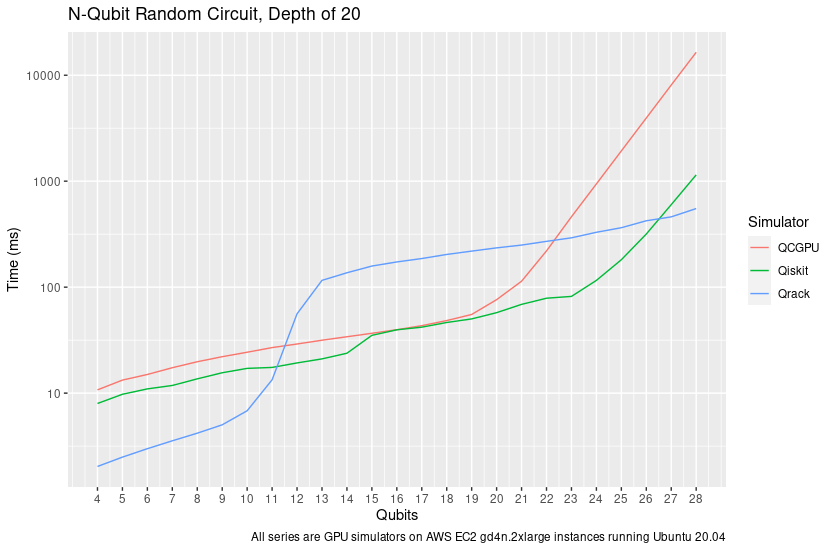
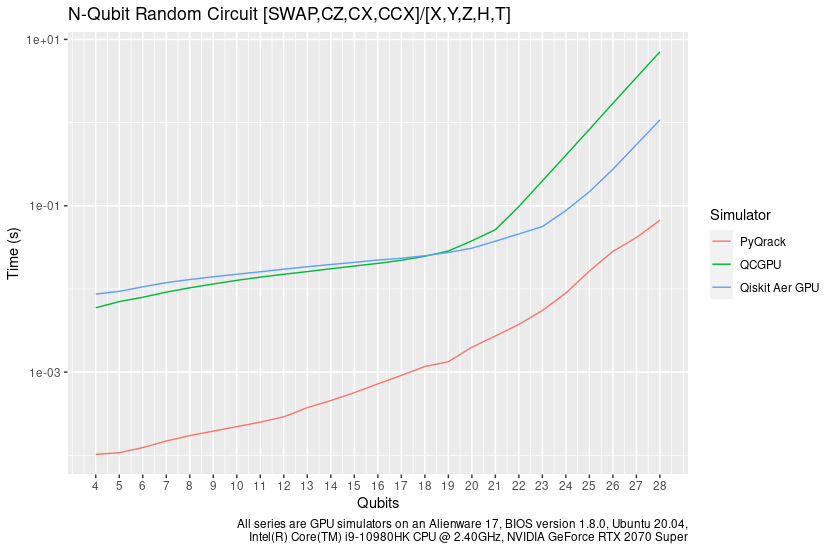
Update benchmarks

diff --git a/docs/performance.rst b/docs/performance.rst
@@ -5,135 +5,72 @@ Qrack Performance
 Abstract
 ********
 
-The Qrack quantum simulator is an open-source C++ high performance, general
-purpose simulation supporting arbitrary numbers of entangled qubits.  While
-there are a variety of other quantum simulators such as [QSharp]_, [QHiPSTER]_,
-and others listed on [Quantiki]_, Qrack represents a unique offering suitable
-for applications across the field.
+The Qrack quantum simulator is an open-source C++ high performance, general purpose simulation supporting arbitrary numbers of entangled qubits. While there are a variety of other quantum simulators such as [QSharp]_, [QHiPSTER]_, and others listed on [Quantiki]_, Qrack represents a unique offering suitable for applications across the field.
 
-A selection of performance tests are identified for creating comparisons
-between various quantum simulators.  These metrics are implemented and
-analyzed for Qrack.  These experimentally derived results compare favorably
-against theoretical boundaries, and out-perform naive implementations for many
-scenarios.
+A selection of performance tests are identified for creating comparisons between various quantum simulators. These metrics are implemented and analyzed for Qrack, QCGPU, and Qiskit Aer GPU. These experimentally derived results compare favorably against theoretical boundaries, and out-perform naive implementations for many scenarios.
 
 Introduction
 ************
 
-There are a growing number of quantum simulators available for research and
-industry use.  Many of them perform quite well for smaller number of qubits,
-and are suitable for non-rigorous experimental explorations.  Fewer projects
-are suitable as "high performance" candidates in the >32 qubit range. Many 
-rely on the common approach often described as the "Schrödinger method," 
-doubling RAM usage by a factor of 2 per fully interoperable qubit, or else 
-Feynman path integrals, which can become intractible at arbitrary circuit depth.
-Attempting to build on the work of IBM's `Breaking the 49-Qubit Barrier in the Simulation of Quantum Circuits` [Pednault2017]_ paper, 
-with more recent attention to potential improvements inspired by Gottesman-Knill stabilizer simulators,
-Qrack can execute surprisingly general circuits past 32 qubits in width on modest single nodes.
+There are a growing number of quantum simulators available for research and industry use. Many of them perform quite well for smaller number of qubits, and are suitable for non-rigorous experimental explorations. Fewer projects are suitable as "high performance" candidates in the >32 qubit range. Many rely on the common approach often described as the "Schrödinger method,"  doubling RAM usage by a factor of 2 per fully interoperable qubit, or else Feynman path integrals, which can become intractible at arbitrary circuit depth. Inspired by IBM's `Pareto-Efficient Quantum Circuit Simulation Using Tensor Contraction Deferral` [Pednault2017]_ paper, instead with a Dirac "ket" centered approach to Schmidt decomposition, and with more recent attention to potential improvements inspired by Gottesman-Knill stabilizer simulators, Qrack can execute surprisingly general circuits past 32 qubits in width on modest single nodes.
 
-Qrack is an open-source quantum computer simulator option, implemented in C++, 
-supporting integration into other popular compilers and interfaces, suitable for utilization in a wide variety
-of projects.  As such, it is an ideal test-bed for establishing a set of
-benchmarks useful for comparing performance between various quantum
-simulators.
+Qrack is an open-source quantum computer simulator option, implemented in C++, directly wrapped for Python via "PyQrack,: supporting integration into other popular compilers and interfaces, suitable for utilization in a wide variety of projects. As such, it is an ideal test-bed for establishing a set of benchmarks useful for comparing performance between various quantum simulators.
 
-Qrack provides a "QEngineCPU" and a "QEngineOCL" that represent non-OpenCL and 
-OpenCL base implementations for Schrödinger method simulation. "QHybrid" switches off between
-these two types internally for best performance at low qubit widths. "QStabilizerHybrid" switches
-off internally between Gottesman-Knill "stabilizer" simulation and Schrödinger method. For general use cases,
-the "QUnit" layer provides explicit Schmidt decomposition on top of another 
-engine type (per [Pednault2017]_). "QPager" segments a Schrödinger method simulation
-into equally sized "pages" that can be run on multiple OpenCL devices or multiple maximum
-allocation segments of a single device, increasing greatest maximally entangled width.
-A "QEngine" type is always the base layer, and QUnit, QStabilizerHybrid, and QPager types
-may be layered over these, and over each other.
+Qrack provides a "QEngineCPU" and a "QEngineOCL" that represent non-OpenCL and OpenCL base implementations for Schrödinger method simulation. "QHybrid" switches off between these two types internally for best performance at low qubit widths. "QStabilizerHybrid" switches off internally between Gottesman-Knill "stabilizer" simulation and Schrödinger method. For general use cases, the "QUnit" layer provides explicit Schmidt decomposition on top of another engine type (per [Pednault2017]_). "QPager" segments a Schrödinger method simulation into equally sized "pages" that can be run on multiple OpenCL devices or multiple maximum allocation segments of a single device, increasing greatest maximally entangled width. A "QEngine" type is always the base layer, and QUnit, QStabilizerHybrid, and QPager types may be layered over these, and over each other.
 
-This version of the Qrack benchmarks contains comparisons against other
-publicly available simulators, specifically QCGPU, and Qiskit (each with its
-default simulator, if multiple were available). Qrack has been incorporated as an optional
-back end for ProjectQ and plugin for Qiskit, in repositories maintained by the developers of Qrack, and
-benchmarks for their performance will follow.
+This version of the Qrack benchmarks contains comparisons against other publicly available simulators, specifically QCGPU, and Qiskit Aer GPU (each with its default simulator, if multiple were available). Qrack has been incorporated as an optional back end for ProjectQ and plugin for Qiskit, in repositories maintained by the developers of Qrack, and benchmarks for their performance will follow.
 
 Reader Guidance
 ===============
 
-This document is largely targeted towards readers looking for a quantum
-simulator that desire to establish the expected bounds for various use-cases
-prior to implementation.
+This document is largely targeted towards readers looking for a quantum simulator that desire to establish the expected bounds for various use-cases prior to implementation.
 
 Disclaimers
 ===========
 
-* Your Mileage May Vary - Any performance metrics here are the result of
-  experiments executed with selected compilation and execution parameters on a
-  system with a degree of variability; execute the supplied benchmarks on the
-  desired target system for accurate performance assessments.
+* Your Mileage May Vary - Any performance metrics here are the result of experiments executed with selected compilation and execution parameters on a system with a degree of variability; execute the supplied benchmarks on the desired target system for accurate performance assessments.
 
-* Benchmarking is Hard - While we've attempted to perform clean and accurate
-  results, bugs and mistakes do occur.  If flaws in process are identified,
-  please let us know!
+* Benchmarking is Hard - While we've attempted to perform clean and accurate results, bugs and mistakes do occur.  If flaws in process are identified, please let us know!
 
 Method
 ******
 
-This performance document is meant to be a simple, to-the-point, and preliminary digest of these results. We plan to submit a formal academic report for peer review of these results, in full detail, as soon as we collect sufficient feedback on the preprint. (The originally planned date of submission was in February of 2020, but it seems that COVID-19 has hindered our ability to seek preliminary feedback.) These results were prepared with the generous financial support of the Unitary Fund. However, we offer that our benchmark code is public, largely self-explanatory, and easily reproducible, while we prepare that report. Hence, we release these partial preliminary results now.
+This performance document is meant to be a simple, to-the-point, and preliminary digest of these results. These results were prepared with the generous financial support of the Unitary Fund. Our benchmark code is public, largely self-explanatory, and easily reproducible.
 
 100 timed trials of single and parallel gates were run for each qubit count between 4 and 28 qubits. Three tests were performed: the quantum Fourier transform, ("QFT"), random circuits constructed from a universal gate set, and an idealized approximation of Google's Sycamore chip benchmark, as per [Sycamore]_. The benchmarking code is available at `https://github.com/vm6502q/simulator-benchmarks <https://github.com/vm6502q/simulator-benchmarks>`_. Default build and runtime options were used for all candidates. **Notably, this means Qrack ran at single floating point accuracy whereas QCGPU and Qiskit ran at double floating point accuracy.**
 
-Among AWS virtual machine instances, we sought to find those systems with the lowest possible cost to run the benchmarks for their respective execution times, at or below for the 28 qubit mark. An AWS g4dn.2xlarge running Ubuntu Server 20.04LTS was selected for GPU benchmarks. Benchmarks were collected from March 4, 2021 through March 7, 2021. These results were combined with single gate, N-width gate benchmarks for Qrack, collected overnight from December 19th, 2018 into the morning of December 20th. (The potential difference since December 2018 in these particular Qrack tests reused from then should be insignificant. We took care to try to report fair tests, within cost limitations, but please let us know if you find anything that appears misrepresentative.)
+The same Alienware 17 laptop device was used for all benchmarks, (BIOS version 1.8.0, Intel(R) Core(TM) i9-10980HK CPU @ 2.40GHz, NVIDIA GeForce RTX 2070 Super). Benchmarks were collected from the week of October 3, 2021 through October 10, 2021.
 
-Comparative benchmarks included QCGPU, the Qiskit-Aer GPU simulator, and Qrack's default typically optimal "stack" of a "QUnit" layer on top of "QStabilizerHybrid," on top of "QPager," on top "QHybrid." All of these candidates are GPU-based. CPU-based Cirq was considered for presentation here, but a nonexhaustive experiment on AWS CPU instances advertised as low cost-for-performance failed to return Cirq results on rough order of cost-for-performance of any GPU candidate. However, the author does not feel comfortable concluding on this basis that CPU-based simulation cost could not be made competitve with GPU-based simulation, hence we omit Cirq from our graphs to avoid potential misrepresentation.
+Comparative benchmarks included QCGPU, the Qiskit-Aer GPU simulator, and Qrack's default typically optimal "stack" of a "QUnit" layer on top of "QStabilizerHybrid," on top of "QPager," on top of a new Pauli gate fusion layer, on top of "QHybrid." All of these candidates are GPU-based, though Qrack "hybridizes" with CPU based simulation as appropriate to improve performance.
 
-QFT benchmarks could be implemented in a straightforward manner on all simulators, and were run as such. Qrack appears to be the only candidate considered for which inputs into the QFT can (drastically) affect its execution time, with permutation basis states being run in much shorter time, for example, hence only Qrack required a more general random input, whereas all other simulators were started in the |0> state. For a sufficiently representatively general test, Qrack instead used registers of single separable qubits intialized with uniformly randomly distributed probability between |0> and |1>, and uniformly randomly distributed phase offset between those states.
+QFT benchmarks could be implemented in a straightforward manner on all simulators, and were run as such. Qrack appears to be the only candidate considered for which inputs into the QFT can (drastically) affect its execution time, with permutation basis states being run in much shorter time, for example, hence only Qrack required a more general random input, whereas all other simulators were started in the |0> state. For a sufficiently representatively general test, Qrack instead used registers of single separable qubits intialized with uniformly randomly distributed probability between |0> and |1>, and uniformly randomly distributed phase offset between those states. Random permutation basis eigenstate initialization is also presented for Qrack, to demonstrate the quantitative difference, though we do not think this a representative test in itself.
 
-Random universal circuits carried out layers of single qubit gates on every qubit in the width of the test, followed by layers randomly selected couplings of (2-qubit) CNOT, CZ, and SWAP, or (3-qubit) CCNOT, eliminating each selected bit for the layer. 20 layers of 1-qubit-plus-multi-qubit iterations were carried out, for each qubit width, for the benchmarks presented here.
+Random universal circuits carried out layers of single qubit gates on every qubit in the width of the test, followed by layers randomly selected couplings of (2-qubit) SWAP, CZ, CNOT, or (3-qubit) CCNOT, eliminating each selected bit for the layer. 20 layers of 1-qubit-plus-multi-qubit iterations were carried out, for each qubit width, for the benchmarks presented here.
 
-Sycamore circuits were carried out similarly to random universal circuits and the method of the [Sycamore]_ paper, interleaving 1-qubit followed by 2-qubit layers, to depth of 20 layers each. Whereas as that original source appears to have randomly fixed its target circuit ahead of any trials, and then carried the same pre-selected circuit out repeatedly for the required number of trials, all benchmarks in the case of this report generated their circuits per-iteration on-the-fly, per the selection criteria as read from the text of [Sycamore]_. Qrack easily implemented the original Sycamore circuit exactly. By nature of the Schrödinger method simulation used in each other candidate, atomic "convenience method" 1-qubit and 2-qubit gate definitions could potentially easily be added to other candidates for this test, hence **we thought it most representative to make largely performance-irrelevant substitutions of "SWAP" for "iSWAP" for those candidates which did not already define sufficient API convenience methods for "Sycamore" circuits,** without nonrepresentatively complicated gate decompositions. We strongly encourage the reader to inspect and independently execute the simple benchmarking code which was already linked in the beginning of this "Method" section, for total specific detail.
+Sycamore circuits were carried out similarly to random universal circuits and the method of the [Sycamore]_ paper, interleaving 1-qubit followed by 2-qubit layers, to depth of 20 layers each. Whereas as that original source appears to have randomly fixed its target circuit ahead of any trials, and then carried the same pre-selected circuit out repeatedly for the required number of trials, all benchmarks in the case of this report generated their circuits per-iteration on-the-fly, per the selection criteria as read from the text of [Sycamore]_. Qrack easily implemented the original Sycamore circuit exactly. By nature of the Schrödinger method simulation used in each other candidate, atomic "convenience method" 1-qubit and 2-qubit gate definitions could potentially easily be added to other candidates for this test, hence **we thought it most representative to make largely performance-irrelevant substitutions of "SWAP" for "iSWAP" for those candidates which did not already define sufficient API convenience methods for "Sycamore" circuits,** without nonrepresentatively complicated gate decompositions. (Specifically, this is only QCGPU.) We strongly encourage the reader to inspect and independently execute the simple benchmarking code which was already linked in the beginning of this "Method" section, for total specific detail.
 
-Qrack QEngine type heap usage was established as very closely matching theoretical expections, in earlier benchmarks, and this has not fundamentally changed. QUnit type heap usage varies greatly dependent on use case, though not in significant excess of QEngine types. No representative RAM benchmarks have been established for QUnit types, yet. QEngine Heap profiling was carried out with Valgrind Massif. Heap sampling was limited but ultimately sufficient to show statistical confidence.
+Qrack QEngine type heap usage was established as very closely matching theoretical expections, in earlier benchmarks, and this has not fundamentally changed. QUnit type heap usage varies greatly dependent on use case, though not in significant excess of QEngine types. No representative RAM benchmarks have been established for QUnit types, yet.
 
 Results
 *******
-
-We observed extremely close correspondence with Schrödinger method theoretical complexity and RAM usage considerations for the behavior of QEngine types. QEngineCPU and QEngineOCL require exponential time for a single gate on a coherent unit of N qubits. QUnit types with explicitly separated subsystems as per [Pednault2017]_ show constant time requirements for the same single gate.
-
-.. image:: performance/x_single.png
-
-.. image:: performance/cnot_single.png
-
-QEngineCPU and QEngineOCL can perform many identical gates in parallel across entangled subsystems for an approximately constant costs, when total qubits in the engine are held fixed as breadth of the parallel gate application is varied. To test this, we can apply parallel gates at once across the full width of a coherent array of qubits. (CNOT is a two bit gate, so :math:`(N-1)/2` gates are applied to odd numbers of qubits.) Notice in these next graphs how QEngineCPU and QEngineOCL have similar scaling cost as the single gate graphs above, while QUnit types show a linear trend (appearing logarithmic on an exponential axis scale):
-
-.. image:: performance/x_all.png
-
-.. image:: performance/cnot_all.png
-
-Heap sampling supports theoretical expecations to high confidence. Complex numbers are represented as 2 single (32-bit) or 2 double (64-bit) accuracy floating point types, for real and imaginary components. The use of double or single precision is controlled by a compilation flag. There is one complex number per permutation in a separable subsystem of qubits. QUnit explicitly separates subsystems, while QEngine maintains complex amplitudes for all :math:`2^N` permutations of :math:`N` qubits. QEngines duplicate their state vectors once during many gates, like arithmetic gates, for speed and simplicity where it eases implementation.
-
-.. image:: performance/qrack_ram.png
-
-QUnit explicitly separates its representation of the quantum state and may operate with much less RAM, but QEngine's RAM usage represents approximately the worst case for QUnit, of maximal entanglement. OpenCL engine types attempt to use memory on the accelerator device instead of general heap when a QEngineOCL instance can fit a single copy of its state vector in a single allocation on the device. On many modern devices, state vectors up to about 1GB in size can be allocated directly on the accelerator device instead of using general heap. "Paging" with QPager allows multiple such maximum allocation segments to be used for the same single simulation. If the normalization option is on, an auxiliary buffer is allocated for normalization that is half the size of the state vector.
 
 The "quantum" (or "discrete") Fourier transform (QFT/DFT) is a realistic and important test case for its direct application in day-to-day industrial computing applications, as well as for being a common processing step in many quantum algorithms.
 
 .. image:: performance/qft.png
 
-.. image:: performance/qft_optimization.png
+Likely due to a combination of all of its optimization "layers" and techniques, including Schmidt decomposition, "hybridization" of CPU with GPU simulation, and "hybridization" of stabilizer methods with "Schrödinger method," Qrack clearly outperforms purely GPU based simulations at low qubit widths. Recall that Qrack uses a representatively "hard" initialization with uniformly random single qubit unitary gates on this test as described above. We can on the faster PyQrack series, permutation basis eigenstate inputs are much more quickly executed, for example. Qrack has historically been the only candidate tested which exhibits special case performance on the QFT, as for random permutation basis eigenstate initialization.
 
-By the 28 qubit level, and at very low qubit widths, Qrack out-performs QCGPU and Qiskit. (Recall that Qrack uses a representatively "hard" initialization on this test, as described above, whereas permutation basis eigenstate inputs, for example, are much more quickly executed.) Qrack is the only candidate tested which exhibits special case performance on the QFT, as for random permutation basis eigenstate initialization, or initialization via permutation basis eigenstates with random "H" gates applied, before QFT.
-
-Similarly, on random universal circuits, defined above and in the benchmark repository, Qrack leads over all other candidates at the high qubit width end.
+Similarly, on random universal circuits, defined above and in the benchmark repository, Qrack leads at all qubit widths.
 
 .. image:: performance/random_universal.png
 
-For "Sycamore" circuits, argued by other authors to establish "quantum supremacy" of native quantum hardware, all simulators tested maintain their general performance trends, as above.
+Again, techniques including Schmidt decomposition, CPU/GPU hybridization, stabilizer/"ket" hybridization, and automatic coalescence of parallel X, Y, and Z gives Qrack a universal edge on a realistic universal gate set for general applications.
+
+For "Sycamore" circuits, argued by other authors to establish "quantum supremacy" of native quantum hardware, Qrack maintains is low-width relative performance edge, (with PyQrack optimization options disabled except CPU/GPU hybridization, but still using "paging" with the C++ "QPager" layer).
 
 .. image:: performance/sycamore.png
 
-To test new capabilities of the "QPager" layer, a slightly different random universal circuit provided in the Qrack benchmark suite was run on a g4dn.12xlarge with 4 NVIDIA Tesla T4 GPUs, to the maximum qubit width possible, which was 34 qubits. The random gate set selected from is {CCZ, CCNOT, CZ, CNOT} and {H, X, Z} for multi- and single qubit gates.
-
-.. image:: performance/test_ccz_ccx_h_x4.png
-
-With the recently improved QPager layer, it is often possible to achieve a 2 qubit greater maximum width on the same GPU hardware as a result of using all 4 maximum allocation segments typical of NVIDIA GPUs. QPager combines "pages" of maximum allocation segment on an OpenCL device, which are typically of a much smaller size than the overall RAM of the GPU. Proceeding to higher factors of 2 times page count, it becomes possible to use general RAM heap without exceeding maximum allocation according to the OpenCL standard, as is demonstrated in the graph above. The threshold to cross from single GPU into multi-GPU is 31 qubits, using 2 GPUs at that level, and the threshold for general heap usage is likely crossed at 33 qubits, using the maximum VRAM of 4 NVIDIA T4 GPUs at 32 qubits.
+With the recently improved QPager layer, it is often possible to achieve a 2 qubit greater maximum width on the same GPU hardware as a result of using all 4 maximum allocation segments typical of NVIDIA GPUs. QPager combines "pages" of maximum allocation segment on an OpenCL device, which are typically of a much smaller size than the overall RAM of the GPU. Proceeding to higher factors of 2 times page count, it becomes possible to use general RAM heap without exceeding maximum allocation according to the OpenCL standard.
 
 Discussion
 **********
@@ -142,27 +79,30 @@ Qrack::QUnit succeeds as a novel and fundamentally improved quantum simulation a
 
 Qrack::QPager, recently, gives several major advantages with or without a Qrack::QUnit layer on top. It usually allows 2 greater maximum qubit width allocation on the same 4-segment GPU RAM store, and it performs surprisingly well for execution speed at high qubit widths. It can also utilize larger system general RAM heap stores than what is available just as GPU RAM.
 
-Qrack has seemingly poor mid-range qubit width performance on the selected g4dn.2xlarge instance, (or, alternatively, good performance at very narrow and very wide ends of the scale, which is not maintained in middle range). As the g4dn.2xlarge only provides 8 "vCPU" units, which is far smaller than a typical PC CPU, mid-range performance might be alleviated somewhat by a more powerful CPU alongside GPU resources. Further, the use of the QPager layer under QUnit might incur a performance penalty at widths too wide for QHybrid optimization with CPU simulation, but too narrow to see returns from the complexity of QPager. While it might be disappointing that the default "layer stack" for Qrack does not perform best across all qubit widths on the selected AWS EC2 instance, good performance at the very wide and very narrow ends of the scale likely still motivates the adoption of Qrack for HPC and PC simulation.
+Qrack maintains a low-width edge over other GPU simulations by "hybridizing" CPU simulation with GPU simulation. Below system-responsive default thresholds, Qrack is simulating via CPU only, with a transparent transition to GPU simulation (and then "paged" GPU simulation) as qubit width is increased.
 
 Further Work
 ************
 
-A formal report of the above and additional benchmark results, in much greater detail and specificity, is planned to be submitted for publication as soon as sufficient preliminary peer opinion can be collected on the preprint, in early to mid 2021, thanks to the generous support of the Unitary Fund.
+The above results will be presented at the "Advanced Simulations of Quantum Computations Workshop," at QCE'21.
+
+An option to simulate with CUDA, as opposed to OpenCL, might benefit execution time on systems with NVIDIA devices, such as the one used to collect test results for this page.
+
+With the PyQrack layer functioning well, we have optionally wrapped it in a Qiskit ProviderV1 module. The provider module has not had an "official release," pending performance and stability improvements, but it is publicly available as open source software on GitHub. Further development and experiments will be done to assess the feasibility of improving Qrack and PyQrack performance with the Qiskit framework.
 
 We will maintain systematic comparisons to published benchmarks of quantum computer simulation standard libraries, as they arise.
 
 Conclusion
 **********
 
-Per [Pednault2017]_, and many other attendant and synergistic optimizations engineered specifically in Qrack's QUnit, explicitly separated subsystems of qubits in QUnit have a significant RAM and speed edge in many cases over the Schrödinger algorithm of most popular quantum computer simulators. With QPager, it is possible to achieve even higher qubit widths and execution speeds. Qrack gives very efficient performance on a single node past 32 qubits, up to the limit of maximal entanglement.
+Per [Pednault2017]_, and many other attendant and synergistic optimizations engineered specifically in Qrack's QUnit, explicitly separated subsystems of qubits in QUnit have a significant RAM and speed edge in many cases over the Schrödinger algorithm of most popular quantum computer simulators. With QPager, it is possible to achieve even higher qubit widths and execution speeds. Qrack gives very efficient performance on a single node past 30 qubits, up to the limit of maximal entanglement.
 
 Citations
 *********
 
 .. target-notes::
 
-.. [Broda2016] `Broda, Bogusław. "Quantum search of a real unstructured database." The European Physical Journal Plus 131.2 (2016): 38. <https://arxiv.org/abs/1502.04943>`_
-.. [Pednault2017] `Pednault, Edwin, et al. "Breaking the 49-qubit barrier in the simulation of quantum circuits." arXiv preprint arXiv:1710.05867 (2017). <https://arxiv.org/abs/1710.05867>`_
+.. [Pednault2017] `Pednault, Edwin, et al. "Pareto-Efficient Quantum Circuit Simulation Using Tensor Contraction Deferral" arXiv preprint arXiv:1710.05867 (2017). <https://arxiv.org/abs/1710.05867>`_
 .. [QSharp] `Q# <https://www.microsoft.com/en-us/quantum/development-kit>`_
 .. [QHiPSTER] `QHipster <https://github.com/intel/Intel-QS>`_
 .. [Quantiki] `Quantiki: List of QC simulators <https://www.quantiki.org/wiki/list-qc-simulators>`_
